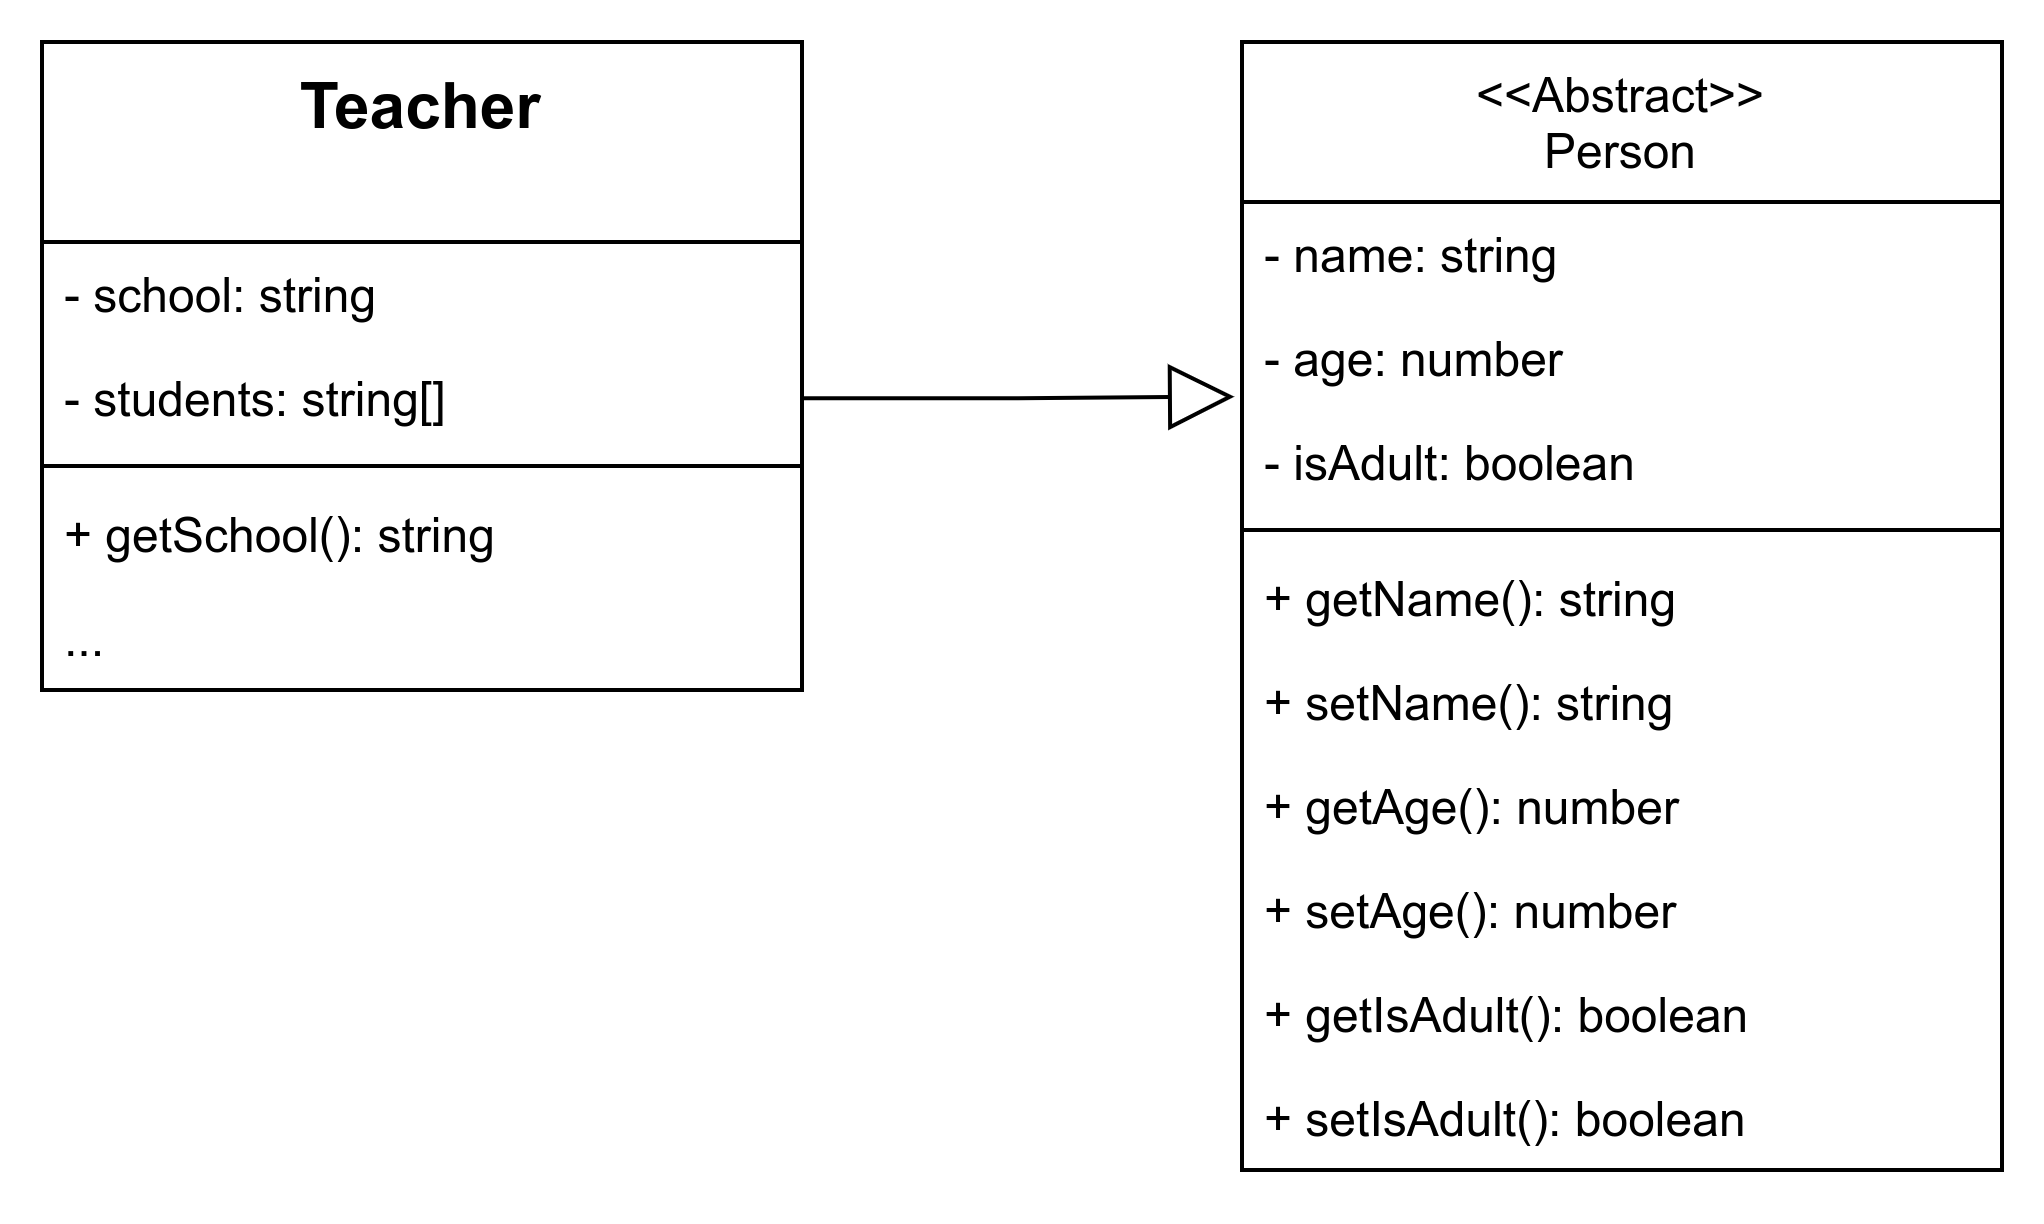
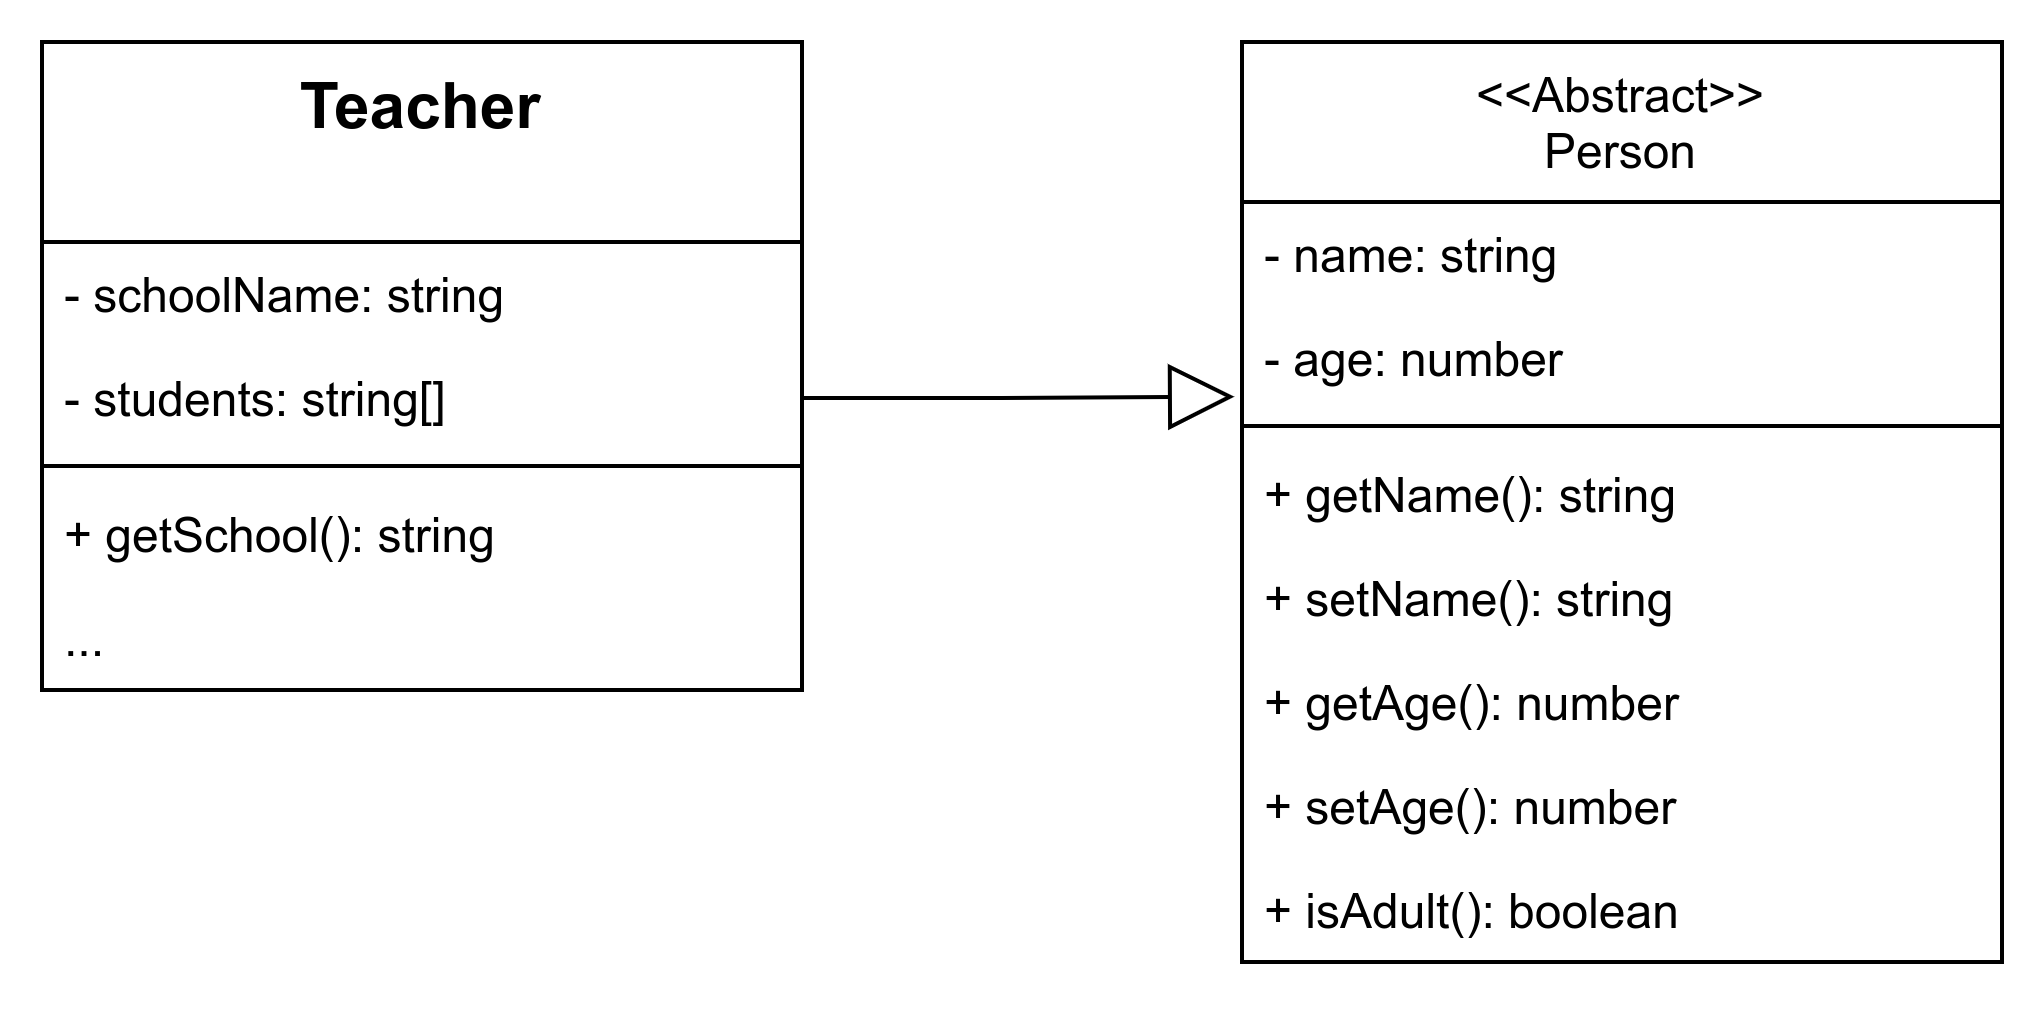
update inheritance example

diff --git a/inheritance.js b/inheritance.js
@@ -1,12 +1,10 @@
 class AbstractPerson {
     #name;
     #age;
-    #isAdult;
 
-    constructor(name, age, isAdult) {
+    constructor(name, age) {
         this.#name = name;
         this.#age = age;
-        this.#isAdult = isAdult;
     }
 
     getName() {
@@ -25,27 +23,23 @@ class AbstractPerson {
         this.#age = age;
     }
 
-    getIsAdult() {
-        return this.#isAdult;
-    }
-
-    setIsAdult(isAdult) {
-        this.#isAdult = isAdult;
+    isAdult() {
+        return this.#age >= 18;
     }
 }
 
 class Teacher extends AbstractPerson {
-    #school;
+    #schoolName;
     #students;
 
-    constructor(name, age, isAdult, school, students) {
+    constructor(name, age, isAdult, schoolName, students) {
         super(name, age, isAdult);
-        this.#school = school;
+        this.#schoolName = schoolName;
         this.#students = students;
     }
 
     getSchool() {
-        return this.#school;
+        return this.#schoolName;
     }
 }
 
